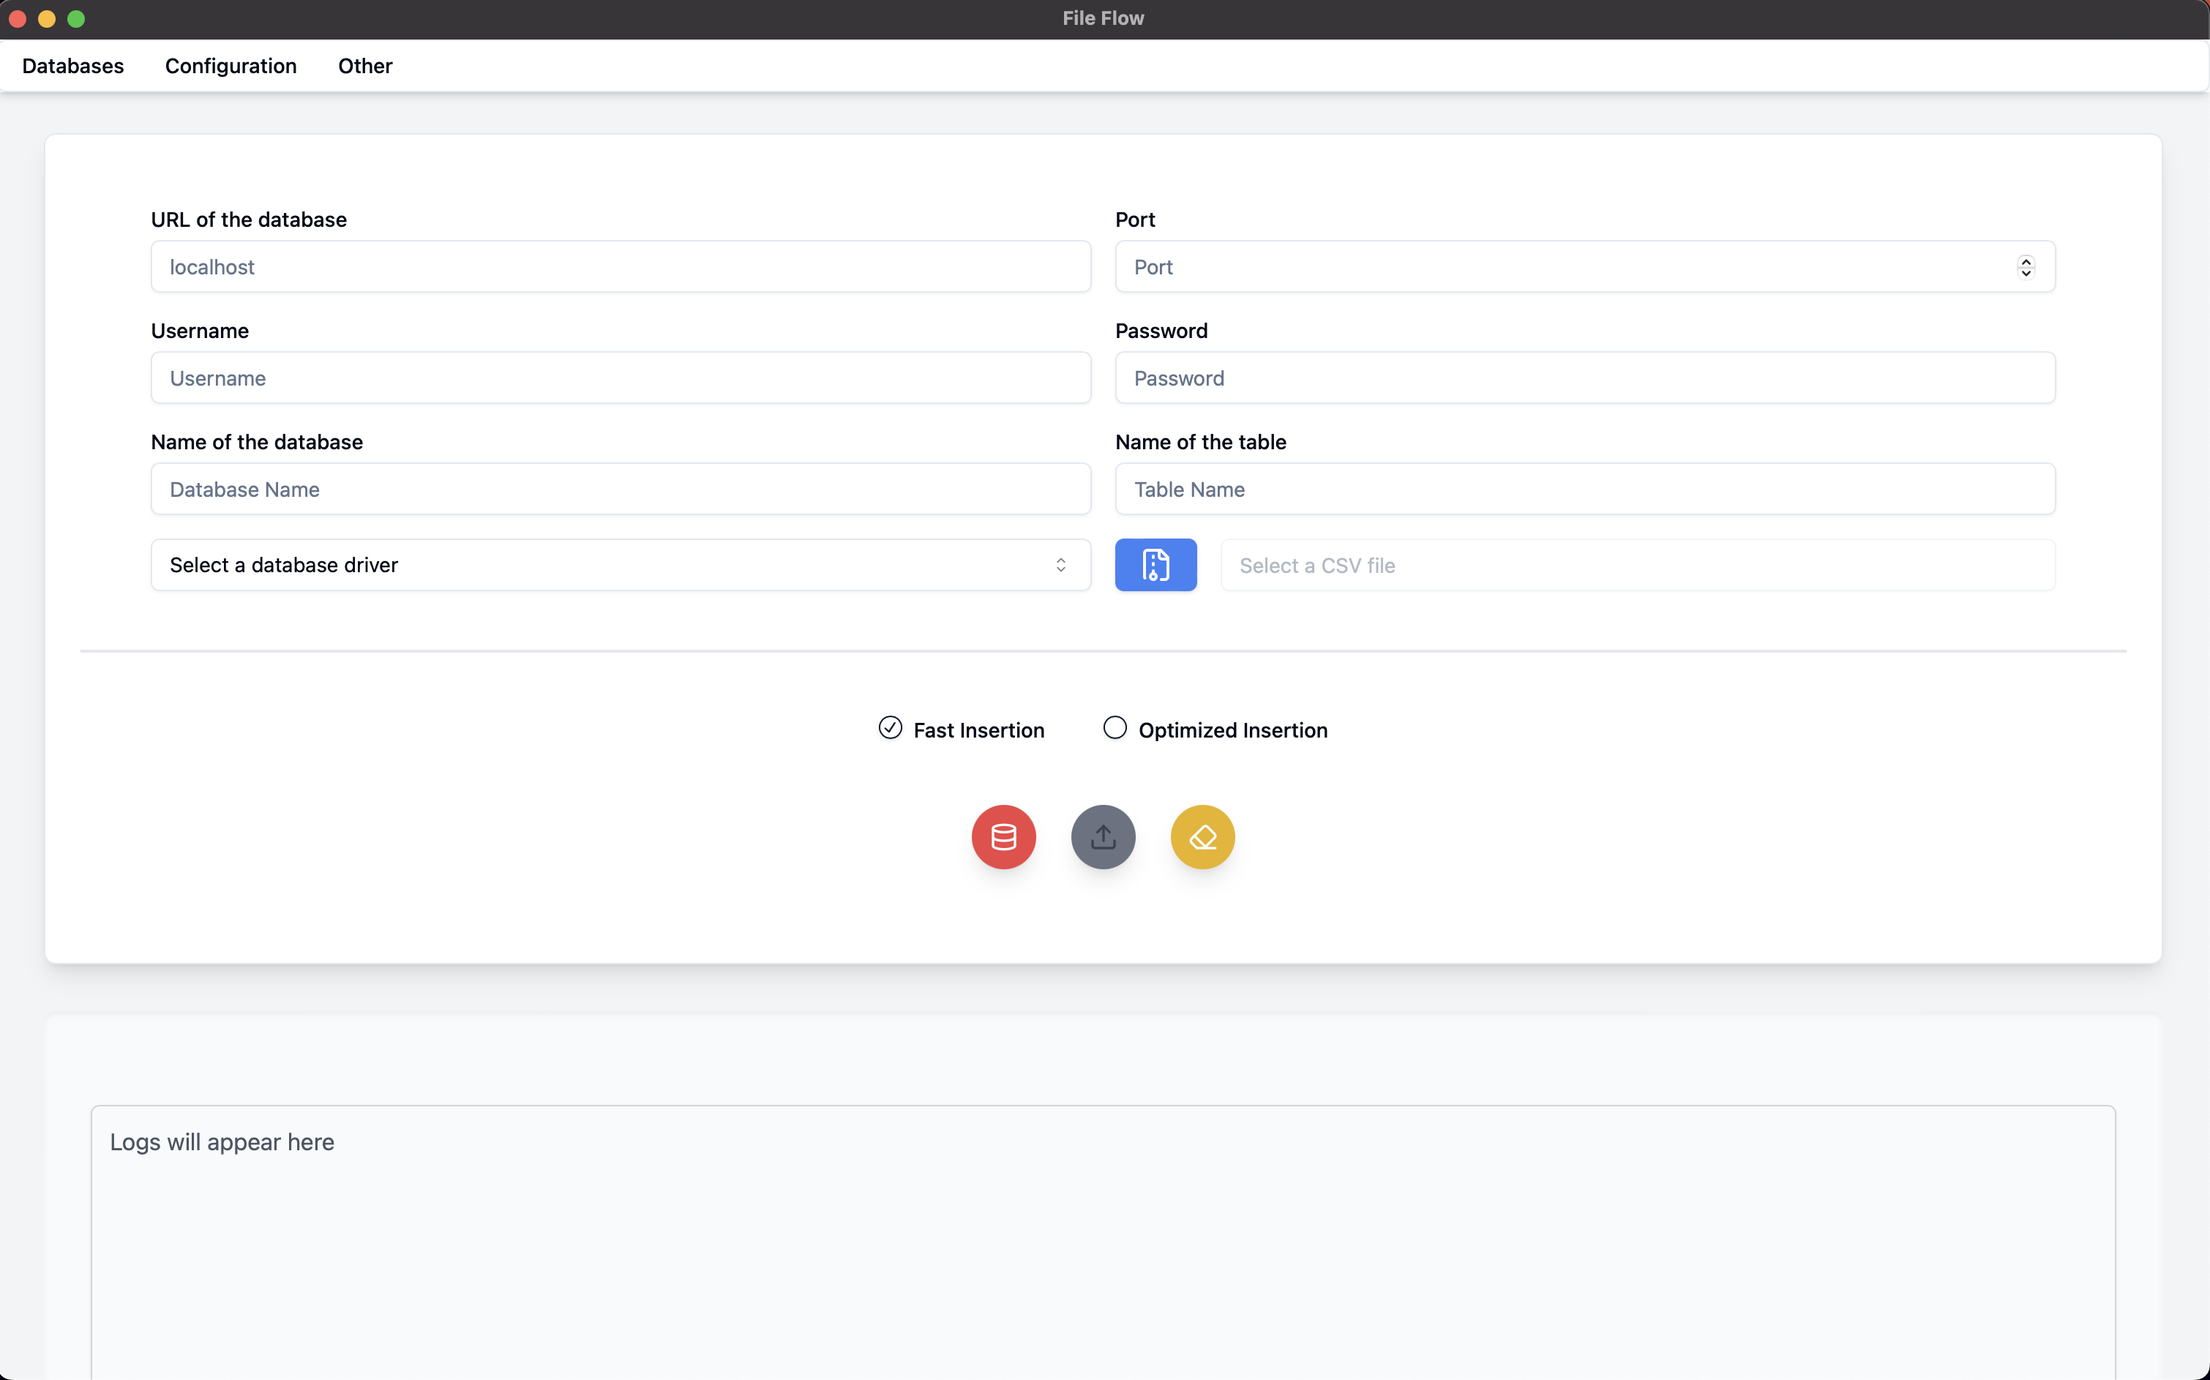
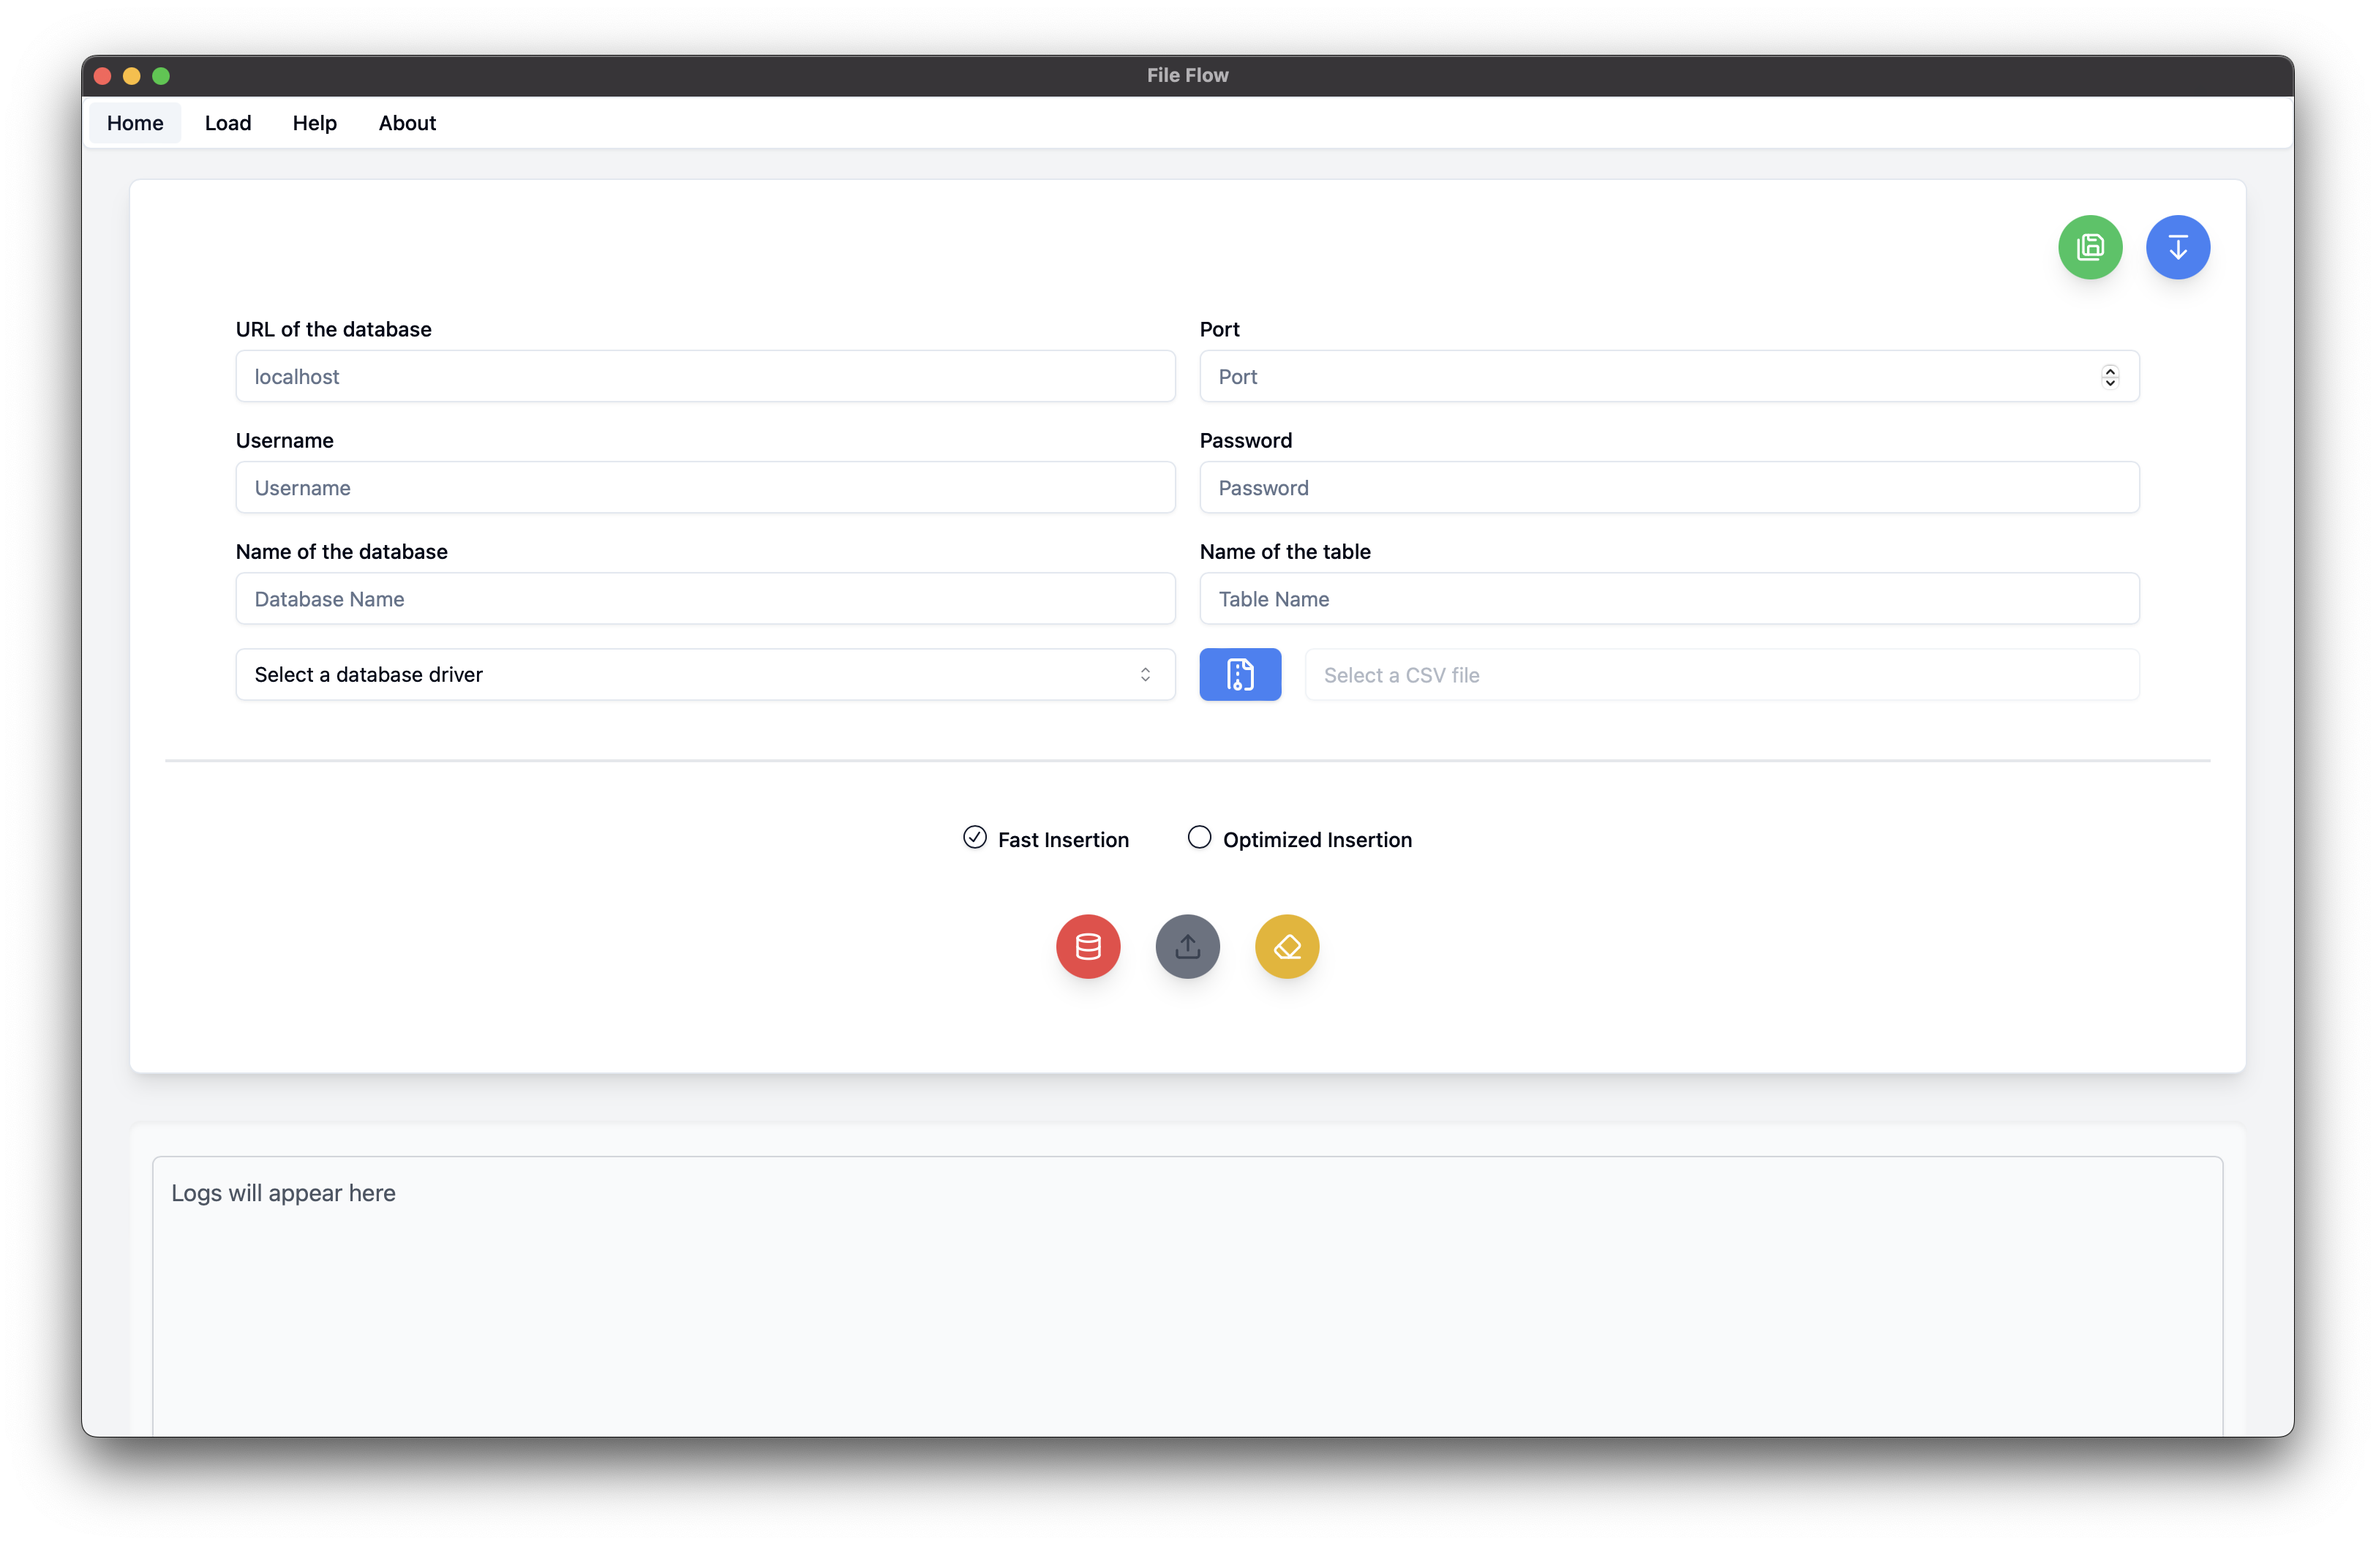
refacto code #2

diff --git a/src/components/fileflowui/other/Help.tsx b/src/components/fileflowui/other/Help.tsx
@@ -11,13 +11,14 @@ const HelpComponent: React.FC = () => {
                 <h1 className="text-6xl font-bold">FileFlow</h1>
             </div>
 
-            {/* About Section */}
+            {/* HELP  INSERT DATA SECTION */}
             <div className="flex justify-center align-middle mt-12 px-4">
 
                 <div className="w-full max-w-6xl space-y-8">
                     {/* Description Card */}
                     <Card className="p-8 shadow-lg bg-white">
-                        <h2 className="text-3xl font-bold text-center mb-4">About FileFlow</h2>
+                        <h2 className="text-3xl font-bold text-center mb-4 bg-gradient-to-r from-blue-600 to-purple-600 text-transparent bg-clip-text">About
+                            Insert Data</h2>
                         <p className="text-lg text-gray-700 text-center">
                             FileFlow is a simple tool that allows you to insert data from a CSV file into a database
                             table,
@@ -71,6 +72,50 @@ const HelpComponent: React.FC = () => {
 
                     </Card>
 
+
+                    <div className={"h-8"}></div>
+
+                </div>
+            </div>
+
+            {/* HELP LOAD DATA SECTION */}
+            <div className="flex justify-center align-middle mt-12 px-4">
+
+                <div className="w-full max-w-6xl space-y-8">
+                    {/* Description Card */}
+                    <Card className="p-8 shadow-lg bg-white">
+                        <h2 className="text-3xl font-bold text-center mb-4 bg-gradient-to-r from-blue-600 to-purple-600 text-transparent bg-clip-text">About
+                            Load Data</h2>
+                        <p className="text-lg text-gray-700 text-center">
+                            Load Data is a feature that allows you to load data from a database table.
+                        </p>
+                    </Card>
+
+                    {/* Features and Usage in Grid */}
+                    <div className="grid grid-cols-1 md:grid-cols-2 gap-8">
+                        {/* Features Card */}
+                        <Card className="p-6 shadow-md bg-white">
+                            <h2 className="text-2xl font-semibold mb-4">Features</h2>
+                            <ul className="list-disc list-inside text-gray-700 space-y-2">
+                                <li>Create a table with optimized column lengths from a CSV file</li>
+                                <li>Generate the load data from the CSV file</li>
+                                <li>The fastest way to load data from a database table</li>
+                                <li>Require the LOAD DATA privilege</li>
+                            </ul>
+                        </Card>
+
+                        {/* Usage Card */}
+                        <Card className="p-6 shadow-md bg-white">
+                            <h2 className="text-2xl font-semibold mb-4">Usage</h2>
+                            <ol className="list-decimal list-inside text-gray-700 space-y-2">
+                                <li>Select the CSV file you want to load data from</li>
+                                <li>Select the target database</li>
+                                <li>Click on the "Load Data" button</li>
+                                <li>Wait for the data to be loaded</li>
+                                <li>Done!</li>
+                            </ol>
+                        </Card>
+                    </div>
 
                     <div className={"h-8"}></div>
 

diff --git a/src/components/hooks/Menu.tsx b/src/components/hooks/Menu.tsx
@@ -1,51 +1,39 @@
-import {Menubar, MenubarContent, MenubarItem, MenubarMenu, MenubarTrigger} from "@/components/ui/menubar.tsx";
+import {Menubar, MenubarMenu, MenubarTrigger} from "@/components/ui/menubar.tsx";
 import React from "react";
 import {Link} from "react-router-dom";
 
 
 const Menu: React.FC = () => {
     return (
-        <div>
+        <div className={'fixed top-0 w-full z-50'}>
             <Menubar>
 
                 {/* Home Menu */}
                 <MenubarMenu>
-                    <MenubarTrigger>Home</MenubarTrigger>
-                    <MenubarContent>
-                        <Link to={"/"}>
-                            <MenubarItem className="cursor-pointer">Go to Home</MenubarItem>
-                        </Link>
-                    </MenubarContent>
+                    <Link to={"/"}>
+                        <MenubarTrigger className={"cursor-pointer"}>Home</MenubarTrigger>
+                    </Link>
                 </MenubarMenu>
 
                 {/* Load Menu */}
                 <MenubarMenu>
-                    <MenubarTrigger>Load</MenubarTrigger>
-                    <MenubarContent>
-                        <Link to={"/load"}>
-                            <MenubarItem className="cursor-pointer">Load Data</MenubarItem>
-                        </Link>
-                    </MenubarContent>
+                    <Link to={"/load"}>
+                        <MenubarTrigger className={"cursor-pointer"}>Load</MenubarTrigger>
+                    </Link>
                 </MenubarMenu>
 
                 {/* Help Menu */}
                 <MenubarMenu>
-                    <MenubarTrigger>Help</MenubarTrigger>
-                    <MenubarContent>
-                        <Link to={"/help"}>
-                            <MenubarItem className="cursor-pointer">Help Section</MenubarItem>
-                        </Link>
-                    </MenubarContent>
+                    <Link to={"/help"}>
+                        <MenubarTrigger className={"cursor-pointer"}>Help</MenubarTrigger>
+                    </Link>
                 </MenubarMenu>
 
                 {/* About Menu */}
                 <MenubarMenu>
-                    <MenubarTrigger>About</MenubarTrigger>
-                    <MenubarContent>
-                        <Link to={"/about"}>
-                            <MenubarItem className="cursor-pointer">About Us</MenubarItem>
-                        </Link>
-                    </MenubarContent>
+                    <Link to={"/about"}>
+                        <MenubarTrigger className={"cursor-pointer"}>About</MenubarTrigger>
+                    </Link>
                 </MenubarMenu>
             </Menubar>
         </div>

diff --git a/src/components/fileflowui/home/Home.tsx b/src/components/fileflowui/home/Home.tsx
@@ -83,12 +83,11 @@ const Home: React.FC = () => {
         <div className="min-h-screen bg-gray-100">
 
             {/* Main Content */}
-            <div className="pt-8 px-4 md:px-8">
+            <div className="pt-8 px-4 md:px-8 mt-6">
                 <Card className="bg-white shadow-lg rounded-lg mb-8 p-6">
 
                     {/* Save and Load Buttons */}
-                    <div className="flex justify-end space-x-4 mb-4">
-
+                    <div className="flex justify-end space-x-4">
                         <ButtonConfigComponent
                             dbConfig={dbConfig}
                             updateDbConfigField={updateDbConfigField}

diff --git a/src/components/fileflowui/load/LoadDataSql.tsx b/src/components/fileflowui/load/LoadDataSql.tsx
@@ -14,10 +14,10 @@ const LoadDataSql: React.FC = () => {
     }
 
     return (
-        <div className="h-[calc(100%-2.25rem)] bg-gray-100">
+        <div className="bg-gray-100">
 
             {/* Load Data Form */}
-            <div className="pt-16 px-4 md:px-8 lg:px-16">
+            <div className="p-4 md:p-8 mt-6">
                 <FormLoadData
                     generateSQL={generateSQL}
                     setters={{

diff --git a/src/components/fileflowui/other/About.tsx b/src/components/fileflowui/other/About.tsx
@@ -26,9 +26,7 @@ const AboutPage = () => {
     }, []);
 
     return (
-        <div
-            className="h-[calc(100%-2.25rem)] flex flex-col items-center justify-center bg-gray-100 text-gray-800 px-4">
-
+        <div className="flex flex-col items-center justify-center w-full h-full space-y-8 bg-gray-100">
             <div className="w-full max-w-2xl text-center">
 
                 {/* App Title */}

diff --git a/README.md b/README.md
@@ -124,4 +124,10 @@ There are two mode to insert the data into the database:
 The optimised mode might take longer to insert the data but it will create a table with the type of the columns
 optimised.
 
+You can also generate a LOAD DATA SQL query to insert the data faster if your database support it. It is way faster than
+inserting the data row by row but not all databases support it.
 
+
+## Contributing
+
+If you want to contribute to the project, you can open an issue or a pull request.
